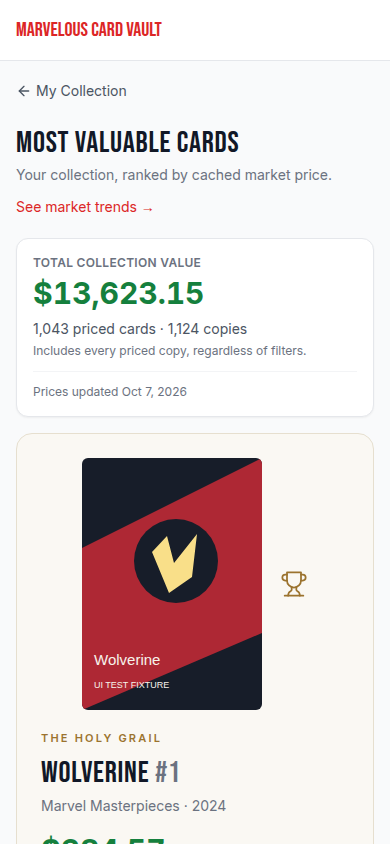
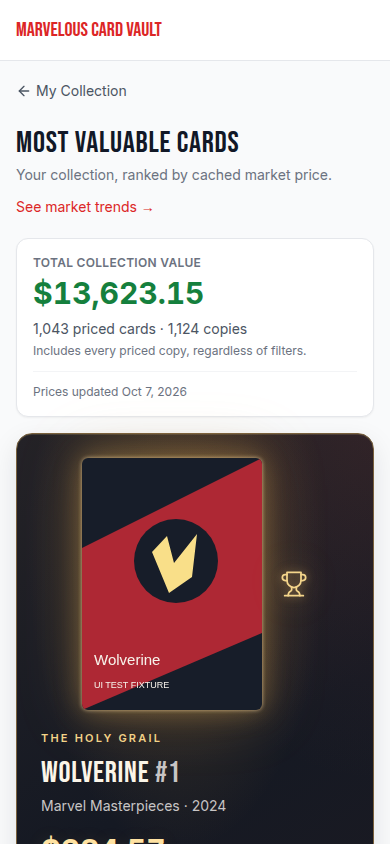
Update collection component styles and refresh dashboard screenshots
Replit-Commit-Author: Agent

diff --git a/client/src/components/collection/collection-value.css b/client/src/components/collection/collection-value.css
@@ -4,14 +4,20 @@
   --vault-line: #e6dfcf;
 }
 .value-gallery .value-grail {
+  --grail-gold: #f4d58b;
   display: flex;
   width: 100%;
   align-items: center;
   gap: 28px;
   padding: 28px;
-  border: 1px solid var(--vault-line);
+  border: 1px solid #79613d;
   border-radius: 16px;
-  background: var(--vault-ivory);
+  background:
+    radial-gradient(ellipse at 18% 45%, #ac7d354d 0%, transparent 54%),
+    radial-gradient(ellipse at 100% 0%, #933f342b 0%, transparent 48%),
+    linear-gradient(125deg, #242227 0%, #151923 52%, #1b1a22 100%);
+  color: #fbf5e8;
+  box-shadow: inset 0 1px 0 #f4d58b26, 0 10px 28px #1719231a;
   text-align: left;
 }
 .value-grail-art {
@@ -23,8 +29,9 @@
 .value-grail-trophy {
   width: 28px;
   height: 28px;
-  color: var(--vault-gold);
+  color: var(--grail-gold);
   stroke-width: 1.5;
+  filter: drop-shadow(0 0 5px #efbd6780) drop-shadow(0 0 16px #efbd674d);
 }
 .value-image {
   display: flex;
@@ -39,7 +46,34 @@
   height: 100%;
   object-fit: contain;
 }
-.value-image-grail { width: 240px; height: 336px; }
+.value-image-grail {
+  width: 240px;
+  height: 336px;
+  overflow: visible;
+  background: transparent;
+}
+.value-image-grail img {
+  border-radius: 6px;
+  /* The filter follows image pixels, not a wrapper: portrait artwork stays clear. */
+  filter: drop-shadow(0 0 2px #ffe0a4b3) drop-shadow(0 0 13px #e5ad5759) drop-shadow(0 0 30px #d9a04438);
+}
+.value-grail-eyebrow { color: var(--grail-gold); }
+.value-grail-number, .value-grail-meta { color: #c8c5c5; }
+.value-grail-price {
+  color: #ffe2a2;
+  text-shadow: 0 2px 18px #d6a55226;
+}
+.value-grail-note { color: #dbcead; }
+.value-gallery .value-grail:hover { border-color: #d7af65; }
+.value-gallery .value-grail:focus-visible { outline-color: #d7af65; }
+@media (max-width: 639px) {
+  .value-gallery .value-grail {
+    background:
+      radial-gradient(ellipse at 45% 23%, #ac7d354d 0%, transparent 54%),
+      radial-gradient(ellipse at 100% 0%, #933f342b 0%, transparent 48%),
+      linear-gradient(150deg, #242227 0%, #151923 62%, #1b1a22 100%);
+  }
+}
 .value-image-grid { width: 100%; aspect-ratio: 5 / 7; }
 .value-grid {
   display: grid;

diff --git a/client/src/components/collection/collection-value-list.tsx b/client/src/components/collection/collection-value-list.tsx
@@ -97,12 +97,12 @@ export function CollectionValueList({
             <Trophy className="value-grail-trophy" aria-label="Highest valued card" />
           </div>
           <div className="min-w-0">
-            <p className="text-[11px] font-semibold uppercase tracking-[0.2em] text-[#9b732e]">The holy grail</p>
-            <p className="mt-2 font-bebas text-3xl leading-tight tracking-wide break-words">{formatCardName(featured.name)} <span className="text-gray-500">#{featured.cardNumber}</span></p>
-            <p className="mt-1 text-sm text-gray-500">{formatSetName(featured.set.name)} · {featured.set.year}</p>
-            <p className="mt-4 text-3xl font-bold tabular-nums text-green-700">{formatMarketValue(featured.marketValue)}</p>
-            {featured.quantity > 1 && <p className="mt-1 text-xs text-gray-600">×{featured.quantity} · {formatMarketValue(featured.lineTotal)} total</p>}
-            <p className="mt-4 text-xs text-gray-500">Highest valued card · View card details →</p>
+            <p className="value-grail-eyebrow text-[11px] font-semibold uppercase tracking-[0.2em]">The holy grail</p>
+            <p className="mt-2 font-bebas text-3xl leading-tight tracking-wide break-words">{formatCardName(featured.name)} <span className="value-grail-number">#{featured.cardNumber}</span></p>
+            <p className="value-grail-meta mt-1 text-sm">{formatSetName(featured.set.name)} · {featured.set.year}</p>
+            <p className="value-grail-price mt-4 text-3xl font-bold tabular-nums">{formatMarketValue(featured.marketValue)}</p>
+            {featured.quantity > 1 && <p className="value-grail-meta mt-1 text-xs">×{featured.quantity} · {formatMarketValue(featured.lineTotal)} total</p>}
+            <p className="value-grail-note mt-4 text-xs">Highest valued card · View card details →</p>
           </div>
         </button>}
         <div className="value-grid" data-testid="value-grid">
